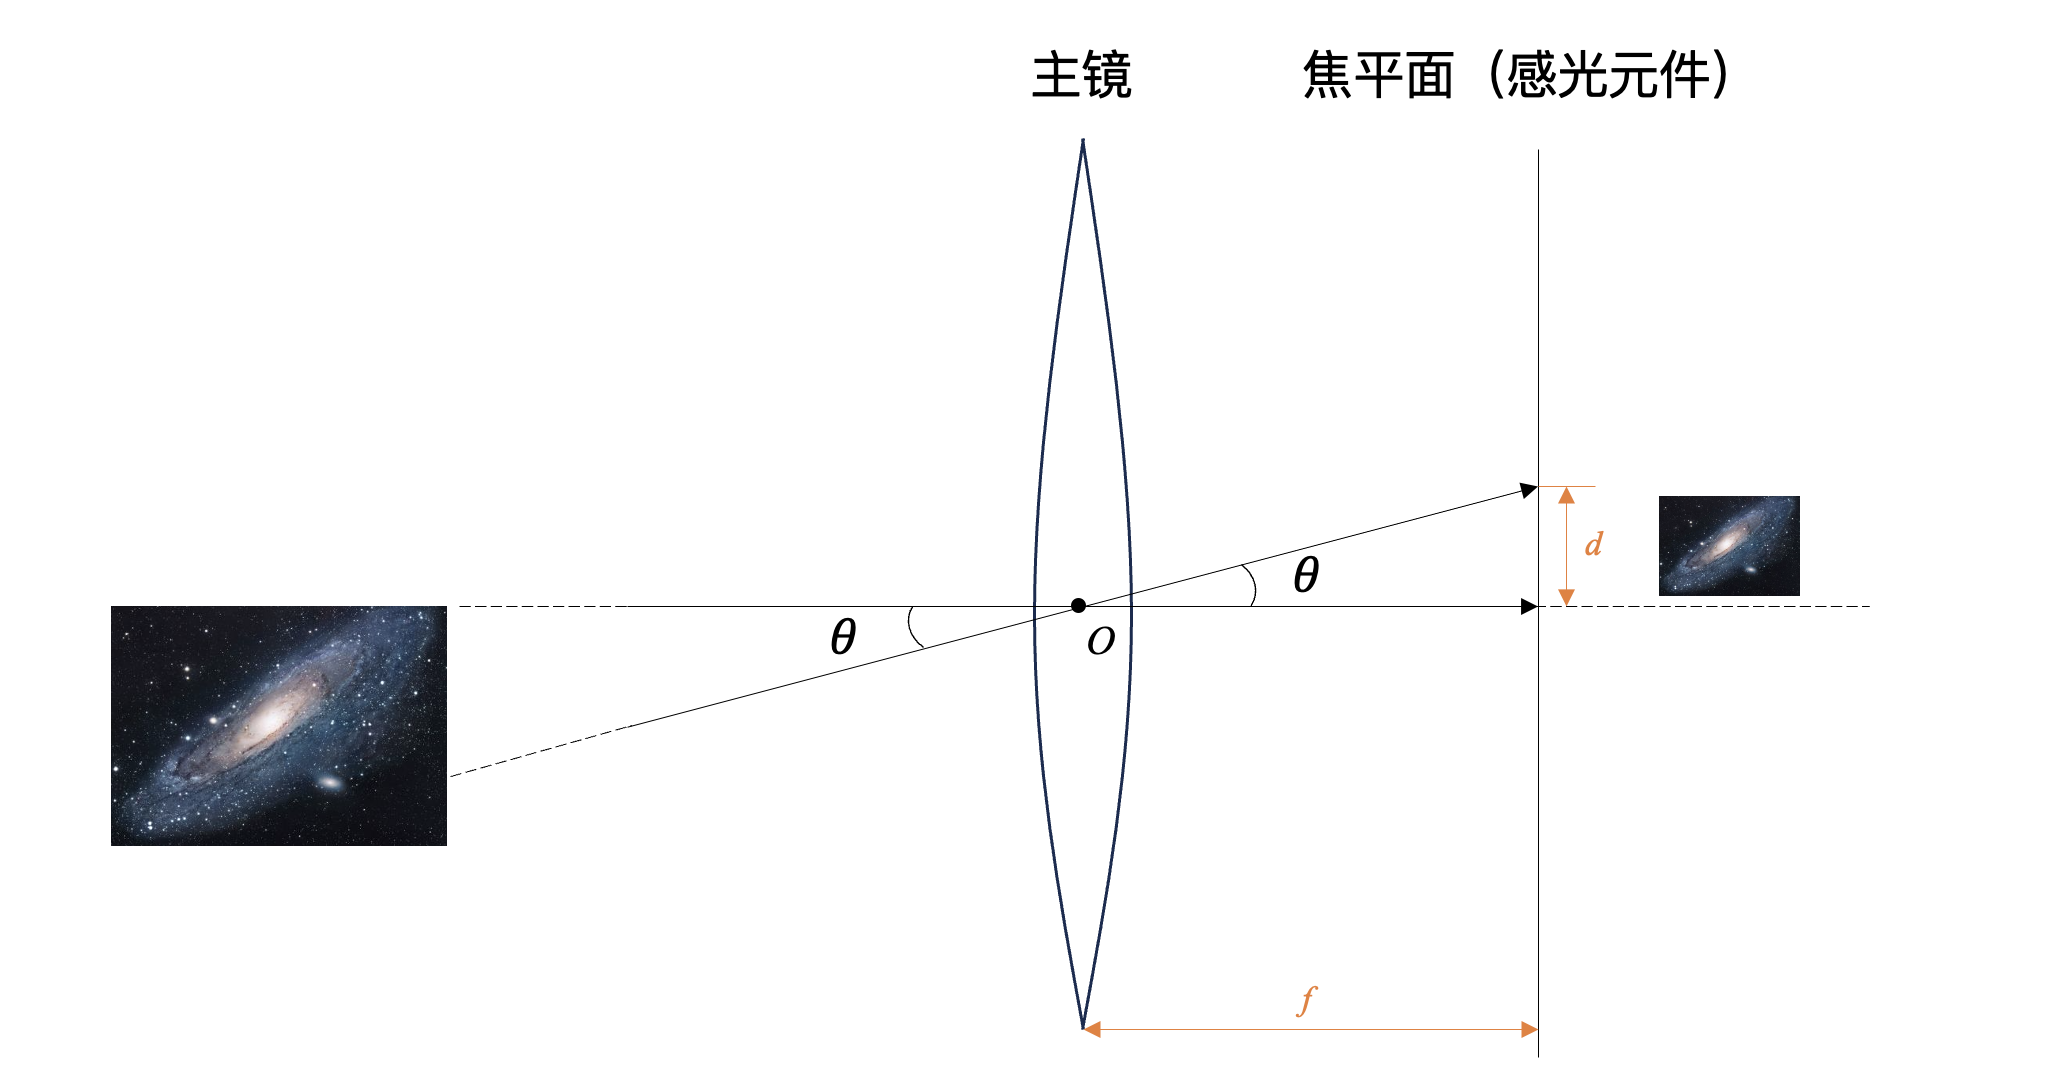
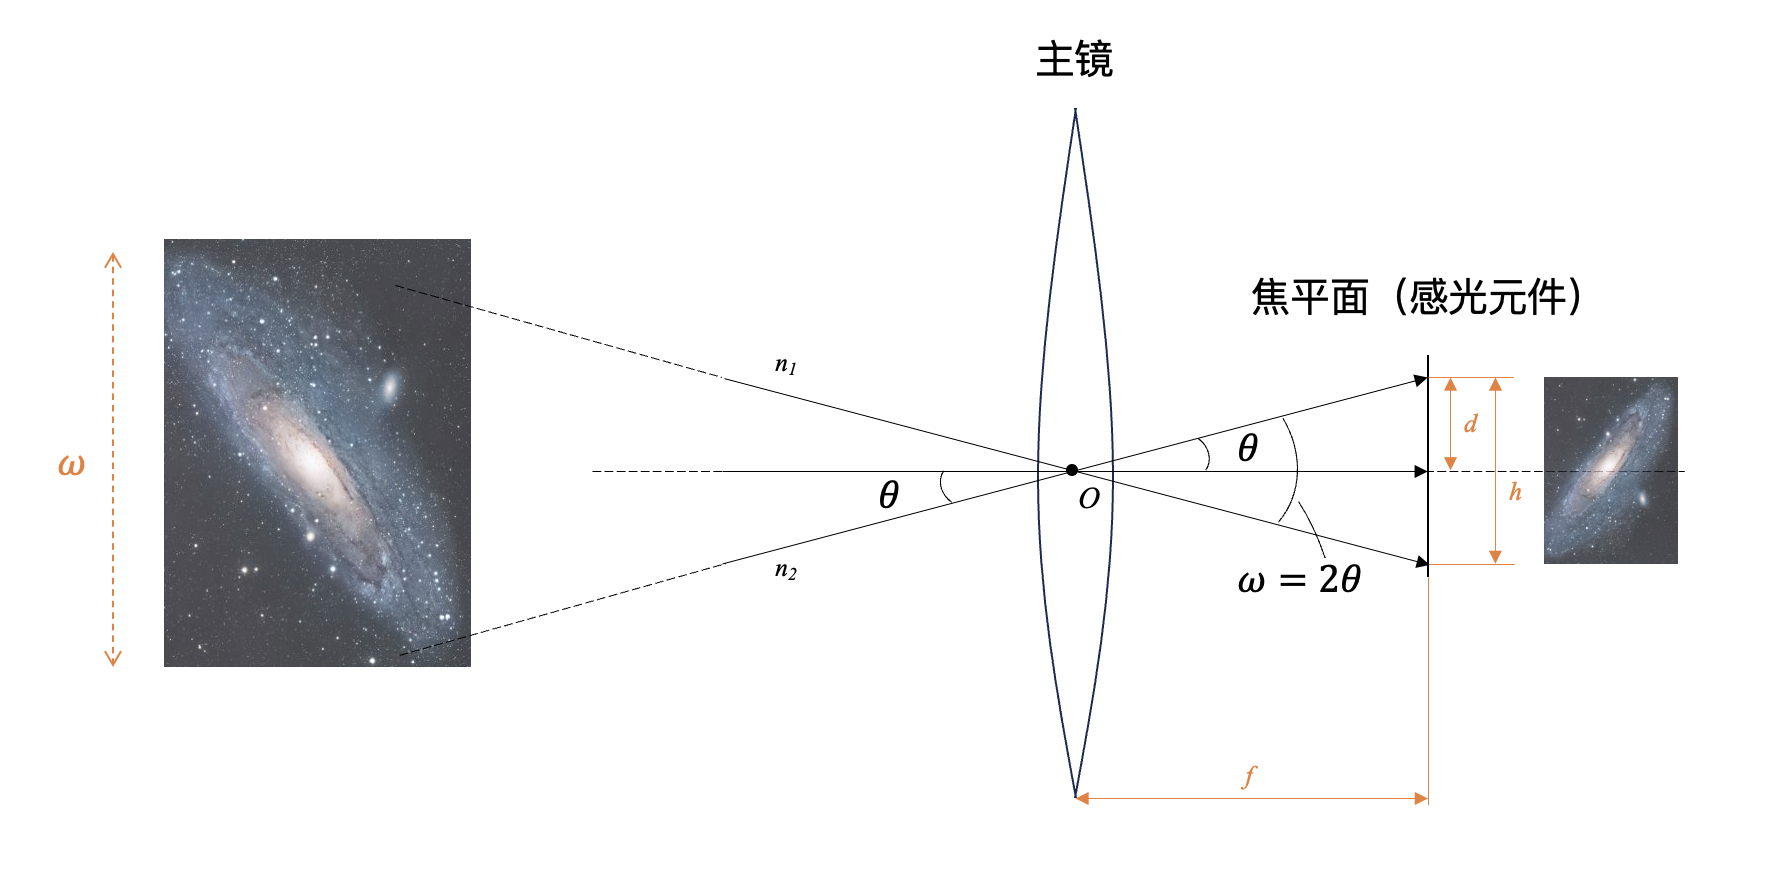
docs: 更新第一章第一节

diff --git a/docs/notes/basic-principle/chapter-1/section-1.md b/docs/notes/basic-principle/chapter-1/section-1.md
@@ -189,7 +189,7 @@ $$ \delta \int_{P}^{Q} n(s)ds = 0 $$
     ![牛顿反射式望远镜光路模拟](../../../assets/images/chapter-1/1-1-6.png){: .small}
     <span class="caption">图7 牛顿反射式望远镜光路模拟</span>
 
-    如图7(A)所示，模拟的是牛顿反射式望远镜光路。从无穷远处接收到3组光线，如图7(B)所示，它们之间的夹角是7.5角分，这个就对应了天体的某些细节。如果我们不借助望远镜，用肉眼，相当于只有 $\frac{1}{4}$ 个月亮左右的宽度，可能比较难辨别。图7(C)显示的是这3组光线聚焦到像平面（焦平面）上的情况。可以看出，望远镜将这一特征缩小并拉近，呈现在像平面上，如果再加上合适的目镜放大，我们就能够轻易辨别这三组光线。
+    如图7(A)所示，模拟的是牛顿反射式望远镜光路。从无穷远处接收到3组光线，如图7(B)所示，它们之间的角距离是7.5角分，这个就对应了天体的某些细节。如果我们不借助望远镜，用肉眼，相当于 $\frac{1}{4}$ 个月亮左右的宽度。图7(C)显示的是这3组光线聚焦到像平面（焦平面）上的情况。可以看出，望远镜将这一细节缩小并拉近，呈现在像平面上，如果再加上合适的目镜放大，我们就能够轻易辨别这三组光线。
 
     这也就是为什么我们 **在天文学中用角距离，在天文摄影中也总是拿角度说事** 。既然都无穷远，默认平行光了，那就考虑这些光线形成的角度了。
 
@@ -213,6 +213,7 @@ $$ \delta \int_{P}^{Q} n(s)ds = 0 $$
 ## 5 视场与成像
 
 所有光学系统都不可能能把物体的所有光都收进来，因为你的望远镜（镜头）大小是有限的，而且你的探测器（包括人眼、感光元件等）的大小也是有限的。因此我们的成像范围也是有限的。
+
 我们可以先简单聊聊我们的眼睛。我们的眼睛可以等效为一个焦距可变的凸透镜，物方焦距为17mm左右，像方焦距为22.8mm左右。视网膜到光心的距离等于眼睛对无穷远处聚焦时的像方焦距。
 
 然后我们看看相机。首先我们了解一下简单的视角与成像大小计算。
@@ -220,6 +221,93 @@ $$ \delta \int_{P}^{Q} n(s)ds = 0 $$
 ![视角与成像大小计算](../../../assets/images/chapter-1/1-1-8.png){: .small}
 
 <span class="caption">图9 视角与成像大小计算</span>
+
+关于图9应该已经没有什么疑问了：我们可以把望远镜对天体的成像简化为这样的模型，天体的视直径（肉眼看见天空中天体所成的张角）为 $\omega$ ，考虑天体发出的两组张角最大、且对于光轴对称的光线 $n_{1}$ 和 $n_{2}$ ，这两组光线都穿过光心；当该主镜（望远镜物镜）焦距为 $f$ 时，这两组光汇聚在焦平面上，成一个像，直径为 $h$ 。那么在焦平面上的半径就为 $d$ ，简单根据角度关系可以得到：
+
+$$
+d = f \tan \theta
+$$
+
+其中，$\theta$ 称为半视场角，$\omega$ 称为视场角。因此可以推出：
+
+$$
+\theta = \tan^{-1} \frac{d}{f}
+$$
+
+$$
+\omega = 2 \theta = 2 \tan^{-1} \frac{h}{2f}
+$$
+
+因为 $\theta$ 和 $\omega$ 都是很小的角度（比如角度小于5度时误差小于0.5%），所以为了简化计算，我们可以将公式简化为：
+
+$$
+\theta \approx \frac{d}{f}
+$$
+
+$$
+\omega \approx \frac{h}{f}
+$$
+
+即当焦距为 $f$ 时，焦平面上天体的大小：
+
+$$
+d \approx f \theta
+$$
+
+$$
+h \approx f \omega
+$$
+
+!!! warning "计算时 $\theta$ 和 $\omega$ 为弧度"
+    由于计算时 $\theta$ 和 $\omega$ 为弧度，因此在计算时需要将角度转换为弧度( $rad$ )。
+    转换关系为：
+    $$
+    2\pi \text{rad} = 360^{\circ}
+    $$
+
+    $$
+    1^{\circ} = \frac{\pi}{180} \text{rad} = 0.01745 \text{rad}
+    $$
+
+    $$
+    \because 1^{\circ} = 60' = 3600''
+    $$
+
+    $$
+    \therefore 1'' = \frac{0.01745 \text{rad}}{3600} \approx 5 \times 10^{-6} \text{rad}
+    $$
+
+根据上述关系我们还可以发现，望远镜的视场和物镜的焦距以及感光元件的尺寸有关。比如这时成的像大小 $h$ 恰好填满感光元件，也就是说感光元件的大小为 $h$ ，那么我们可以发现，理论上，当感光元件尺寸一定时，焦距越大，望远镜对应的视场越小，相应的像的放大倍数也就越大，如图10(A)所示；而在焦距一定时，感光元件的尺寸越大，望远镜对应的视场也越大（当然传感器尺寸也不是越大越好，这就涉及到之后的几何像差），如图10(B)所示。
+
+![望远镜的视场与物镜的焦距以及感光元件的尺寸有关](../../../assets/images/chapter-1/1-1-9.png){: .small}
+
+<span class="caption">图10 望远镜的视场与物镜的焦距以及感光元件的尺寸有关</span>
+
+???+ question "例题2"
+    已知仙女座星系(M31)的视直径约为 $3^{\circ}$ ，请问使用焦距为 $700mm$ 的望远镜拍摄时，焦平面上的星系会是多大？如果使用全画幅相机拍摄，可以装下星系主体吗？
+    ??? note "解答"
+        首先将视直径转换为弧度：
+
+        $$
+        \omega = 3^{\circ} \times \frac{\pi}{180} \approx 0.052 \text{rad}
+        $$
+
+        然后根据公式：
+
+        $$
+        h \approx f \omega
+        $$
+
+        可以得到焦平面上的星系直径大小为：
+
+        $$
+        h \approx 700 \times 0.052 \approx 36.4 \text{mm}
+        $$
+
+        使用全画幅相机拍摄时，焦平面的尺寸为 $36mm \times 24mm$ ，对角线为 $43.3mm$ ，因此全画幅相机接700mm望远镜是完全可以将M31的主体装下的。
+
+???+ question "例题3"
+    已知
 
 ## 6 几何光学的局限性
 
